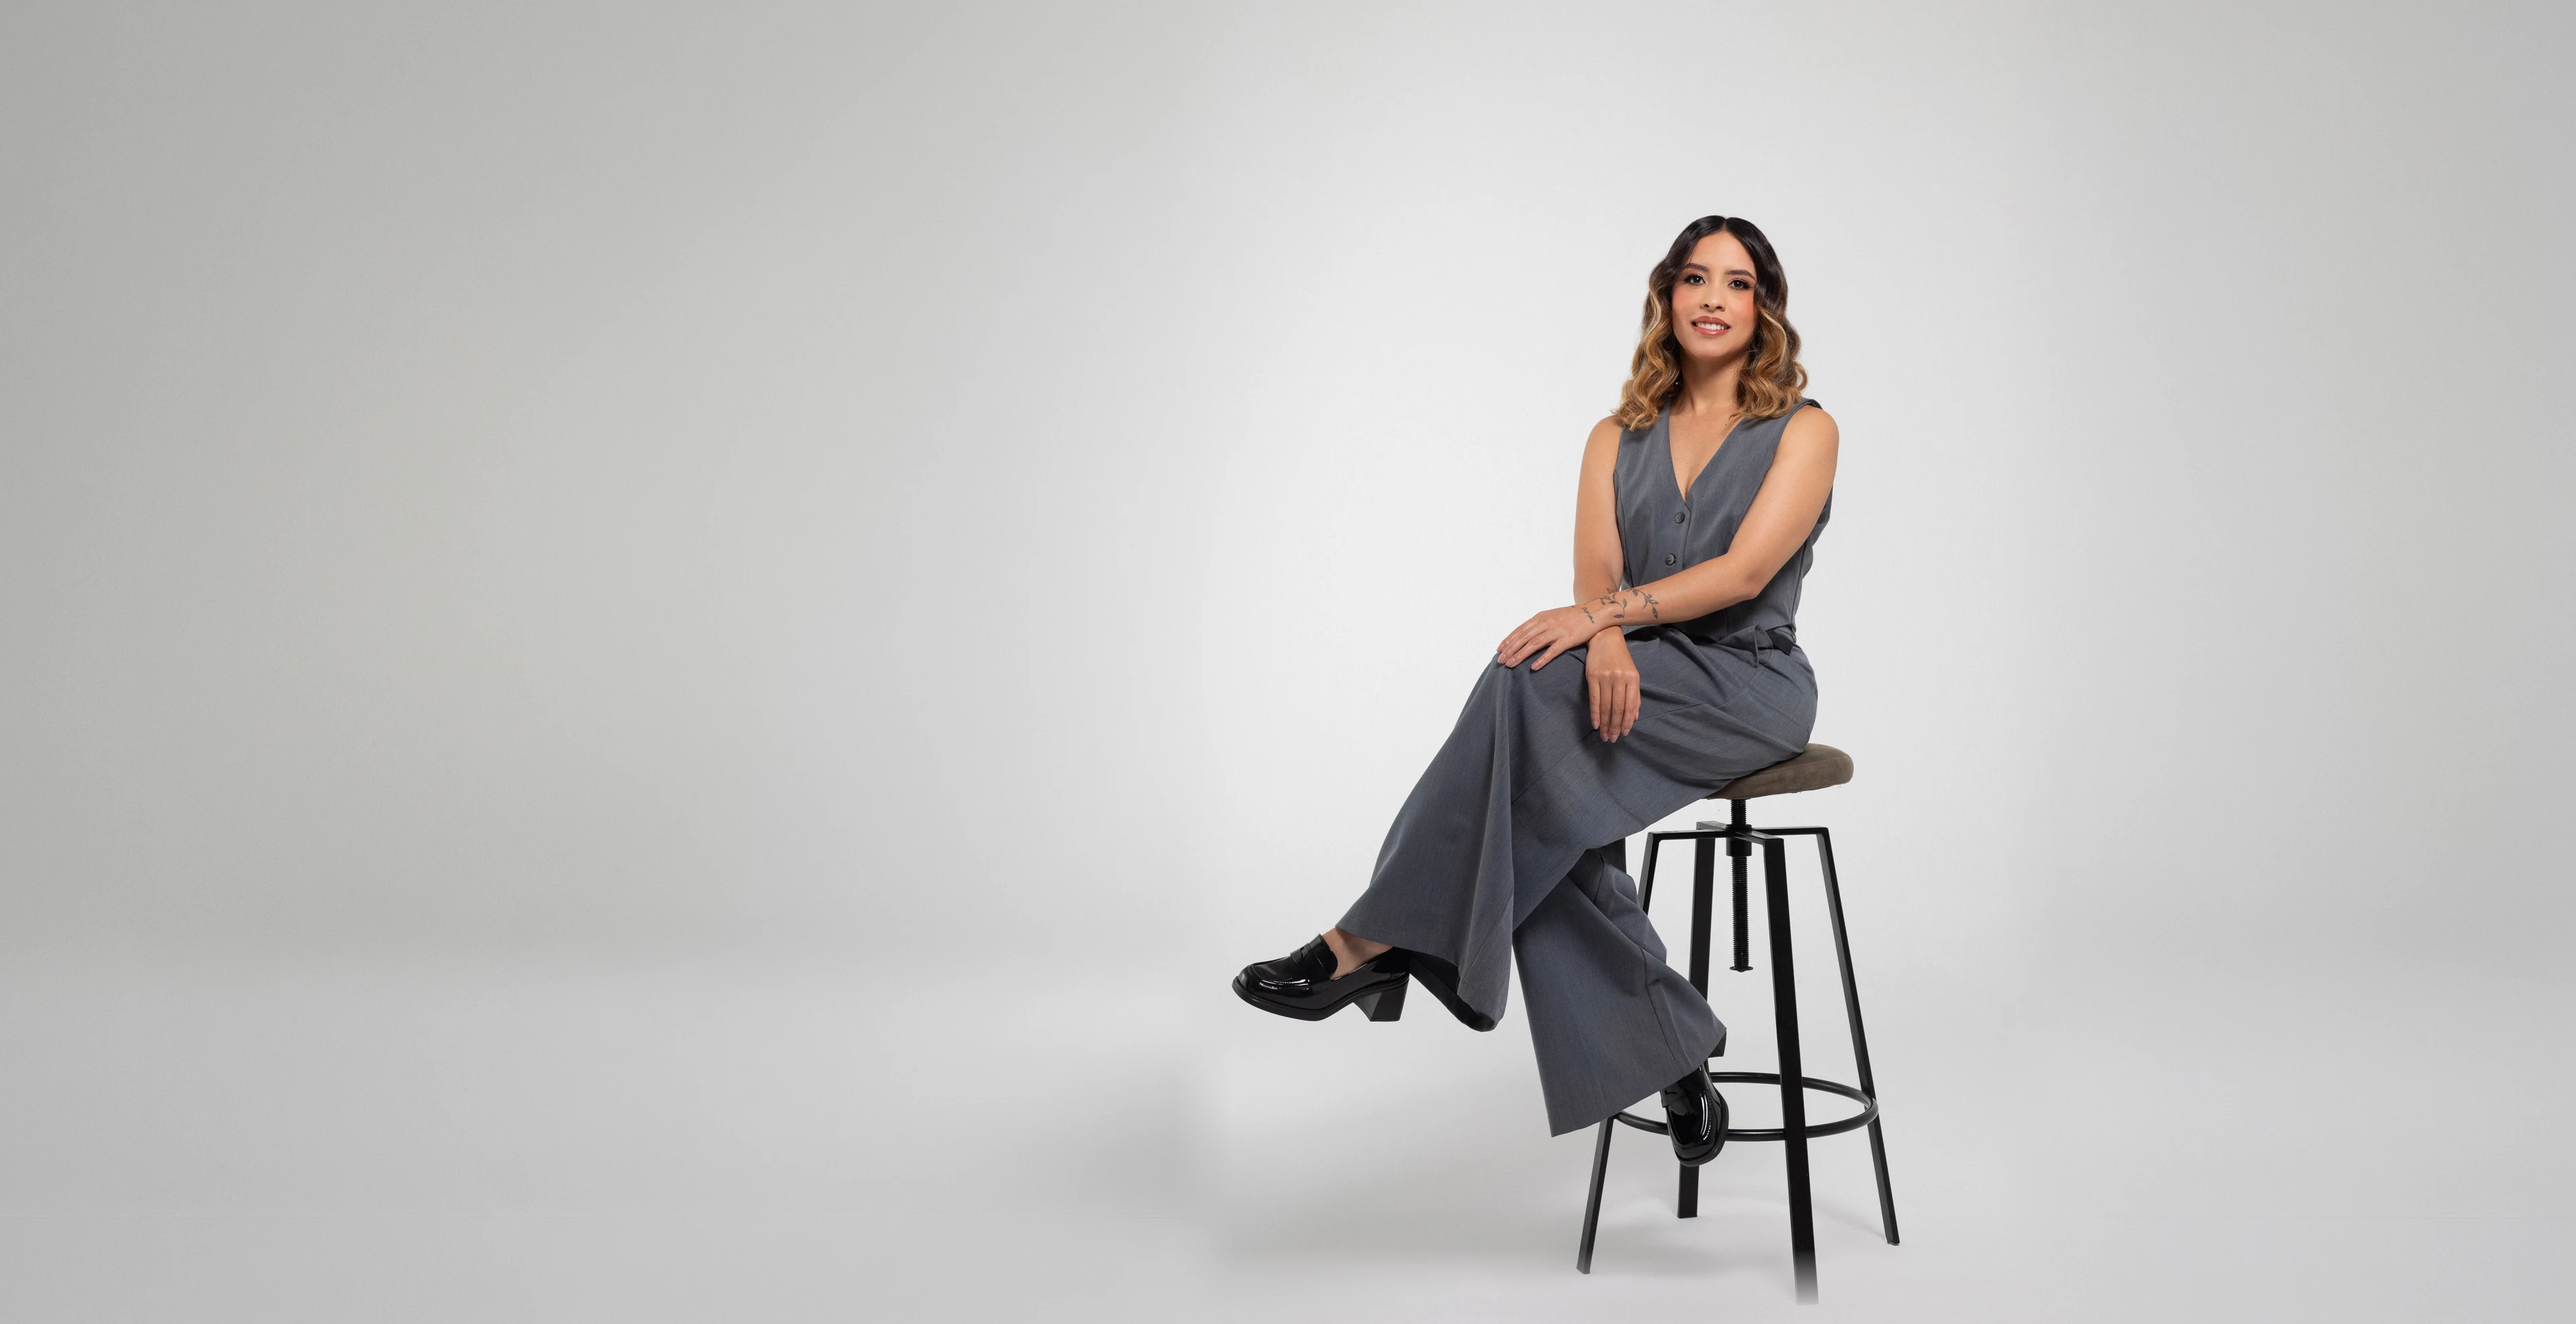
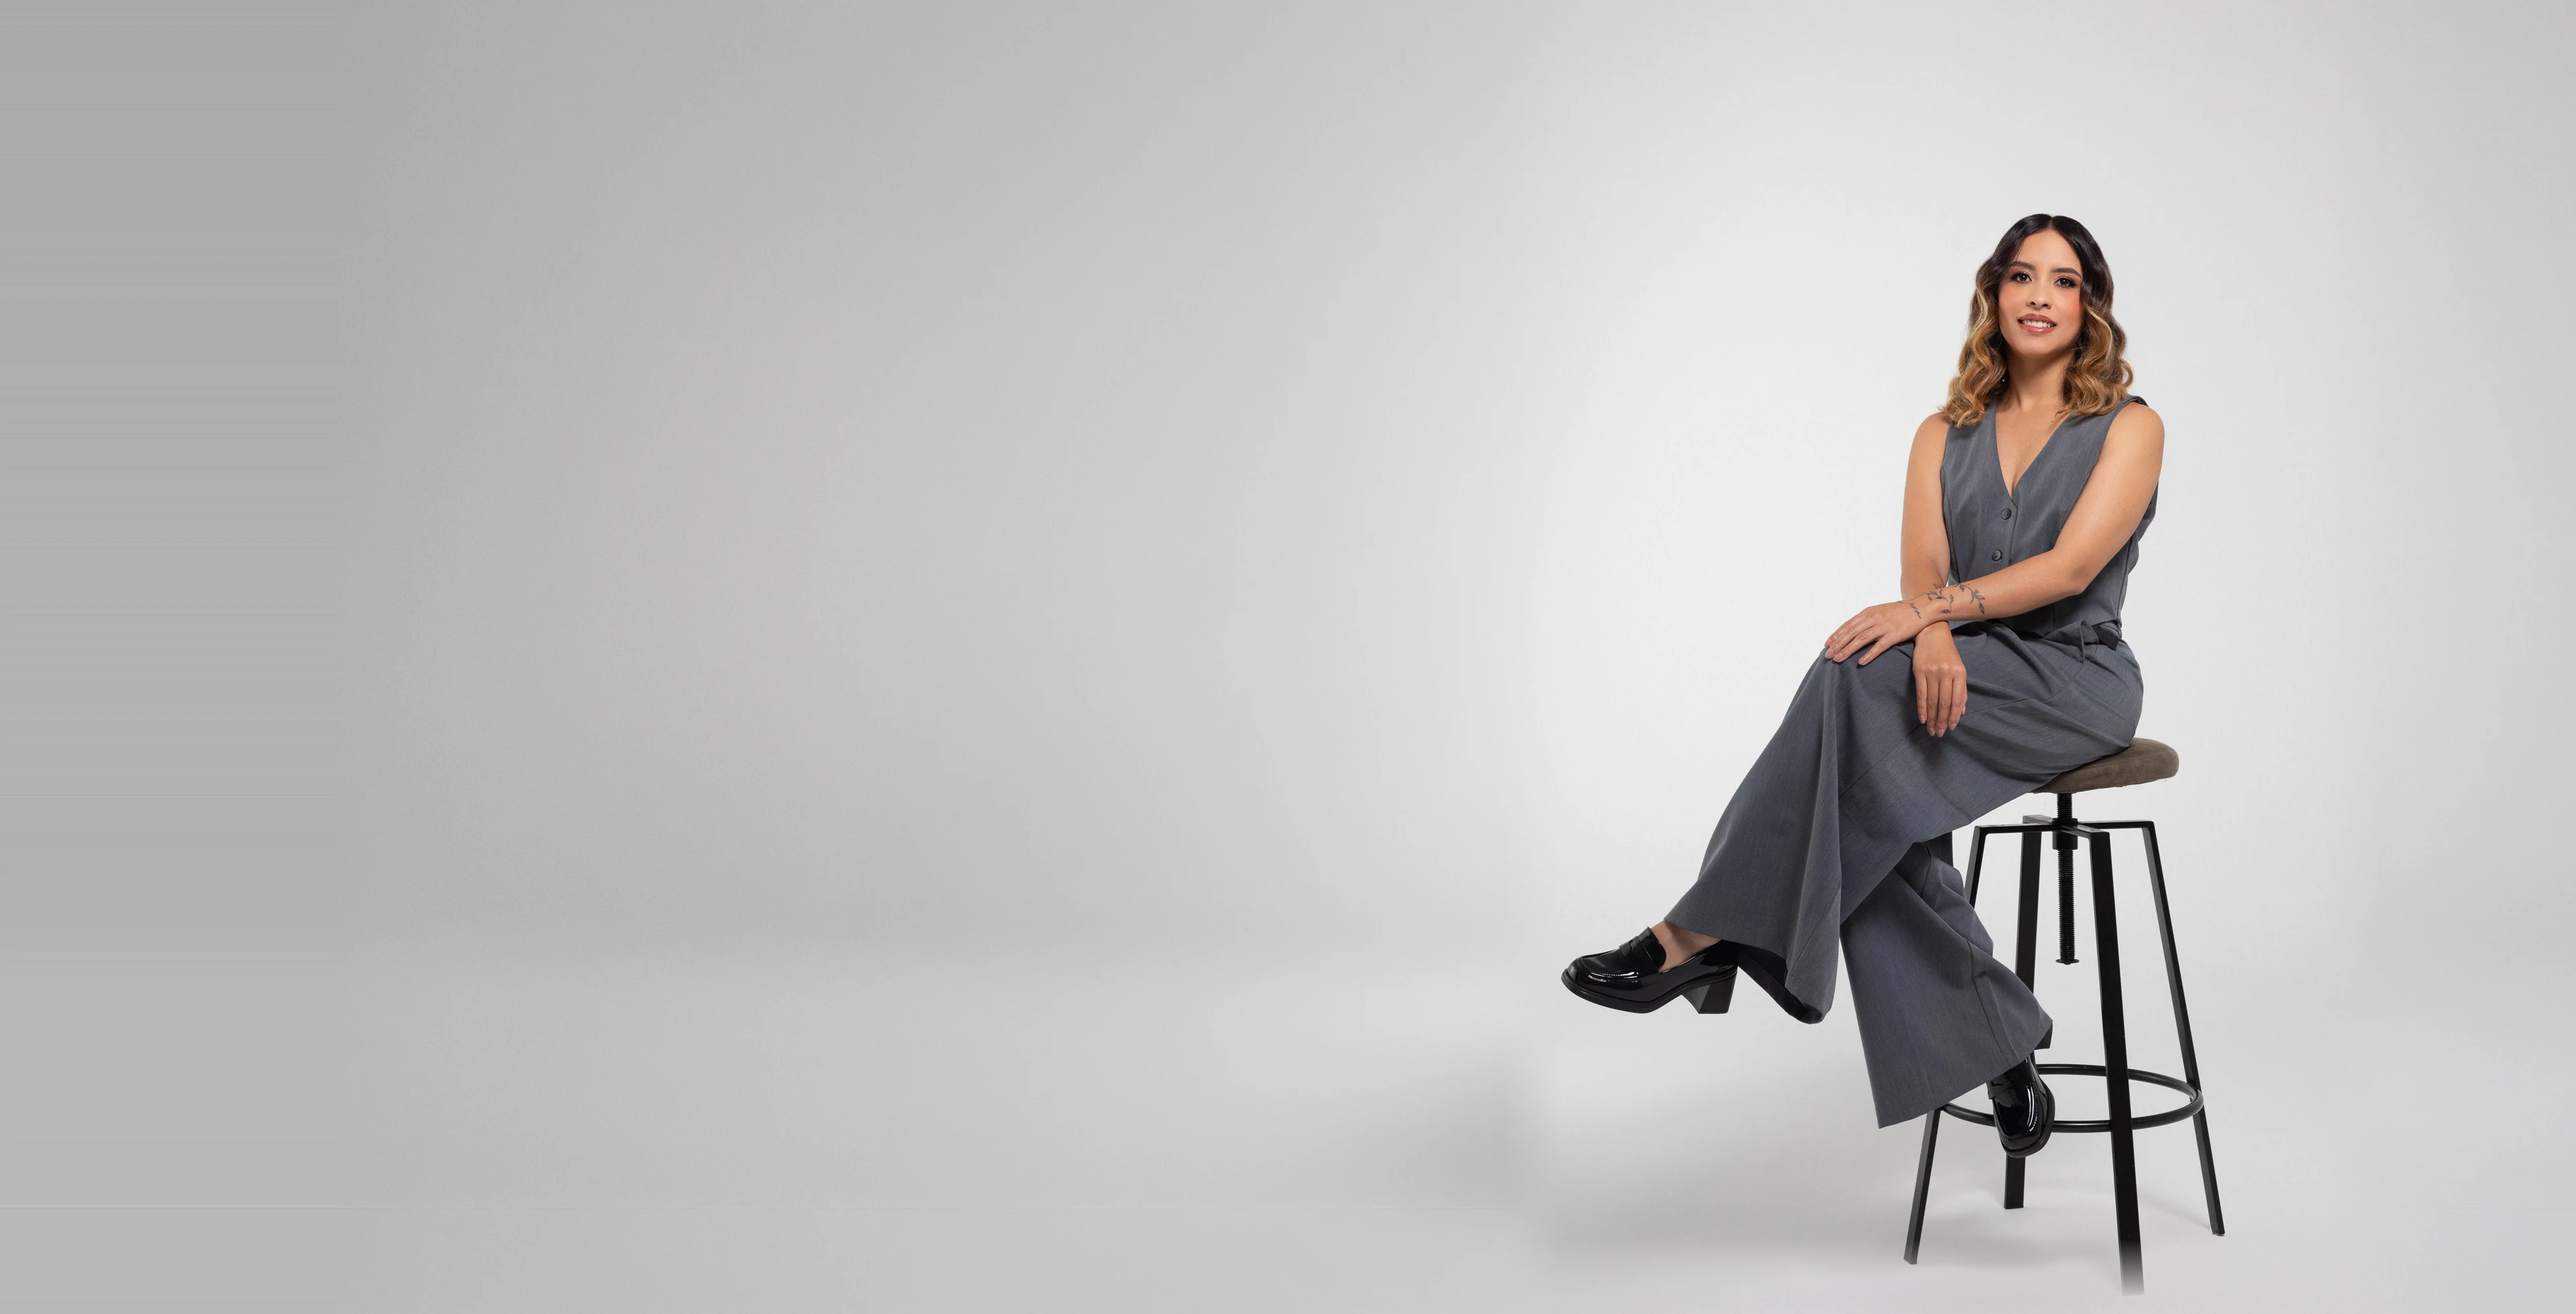
Sobre mi hero: Katherine moved right (red box), tighter crop for 1024-1279

Changed region(s): [[0.4688, 0.1556, 0.875, 0.9959], [0.4688, 0.1867, 0.5312, 0.6224]]

diff --git a/src/app/sobre-mi/page.client.tsx b/src/app/sobre-mi/page.client.tsx
@@ -125,13 +125,23 @@ export default function AboutPageClient() {
               className="object-cover object-[42%_top] lg:hidden"
               priority
             />
+            {/* Smaller desktops get a tighter crop so she stays on the right, clear of the words */}
+            <Image
+              src="/images/KT_Stool_Hero_Md.webp"
+              alt=""
+              fill
+              sizes="100vw"
+              quality={90}
+              className="object-cover object-right hidden lg:block xl:hidden"
+              priority
+            />
             <Image
               src="/images/KT_Stool_Hero.webp"
               alt=""
               fill
               sizes="100vw"
               quality={90}
-              className="object-cover object-[62%_center] xl:object-[100%_center] hidden lg:block"
+              className="object-cover object-right hidden xl:block"
               priority
             />
           </div>
@@ -140,8 +150,8 @@ export default function AboutPageClient() {
         </div>
 
         <div className="relative z-10 w-full px-6 md:pl-[6vw] md:pr-16 pb-14 md:pb-20 lg:py-32">
-          <h1 data-lines className={`${TITLE} text-[min(4.2rem,calc((100vw-3rem)/5.3))] md:text-[6.5rem] lg:text-[clamp(5.5rem,9vw,9.5rem)] leading-[0.82] tracking-[-0.03em] text-white`}>{s("heroTitlePart1")}</h1>
-          <p data-reveal className="font-script text-[var(--color-brand-gold)] whitespace-nowrap text-[2.6rem] md:text-[3.7rem] lg:text-[clamp(3.1rem,5.1vw,5.4rem)] leading-none mt-2 lg:mt-3">{(() => { const w = s("heroTitlePart2").split(" "); return <>{w.slice(0, 2).join(" ")}{w.length > 2 && <span className="hidden md:inline"> {w.slice(2).join(" ")}</span>}</>; })()}</p>
+          <h1 data-lines className={`${TITLE} text-[min(4.2rem,calc((100vw-3rem)/5.3))] md:text-[6.5rem] lg:text-[6.5vw] xl:text-[clamp(5.5rem,9vw,9.5rem)] leading-[0.82] tracking-[-0.03em] text-white`}>{s("heroTitlePart1")}</h1>
+          <p data-reveal className="font-script text-[var(--color-brand-gold)] whitespace-nowrap text-[2.6rem] md:text-[3.7rem] lg:text-[3.7vw] xl:text-[clamp(3.1rem,5.1vw,5.4rem)] leading-none mt-2 lg:mt-3">{(() => { const w = s("heroTitlePart2").split(" "); return <>{w.slice(0, 2).join(" ")}{w.length > 2 && <span className="hidden md:inline"> {w.slice(2).join(" ")}</span>}</>; })()}</p>
           <p data-reveal className="mt-8 lg:mt-12 inline-block bg-[var(--color-brand-pink)] text-[var(--color-brand-black)] px-4 py-2.5 text-[11px] font-bold uppercase tracking-[0.2em]">{s("heroTag")}</p>
           <p data-reveal className="text-white text-base md:text-lg leading-relaxed mt-5 max-w-md">{s("heroSubtitle")}</p>
         </div>
